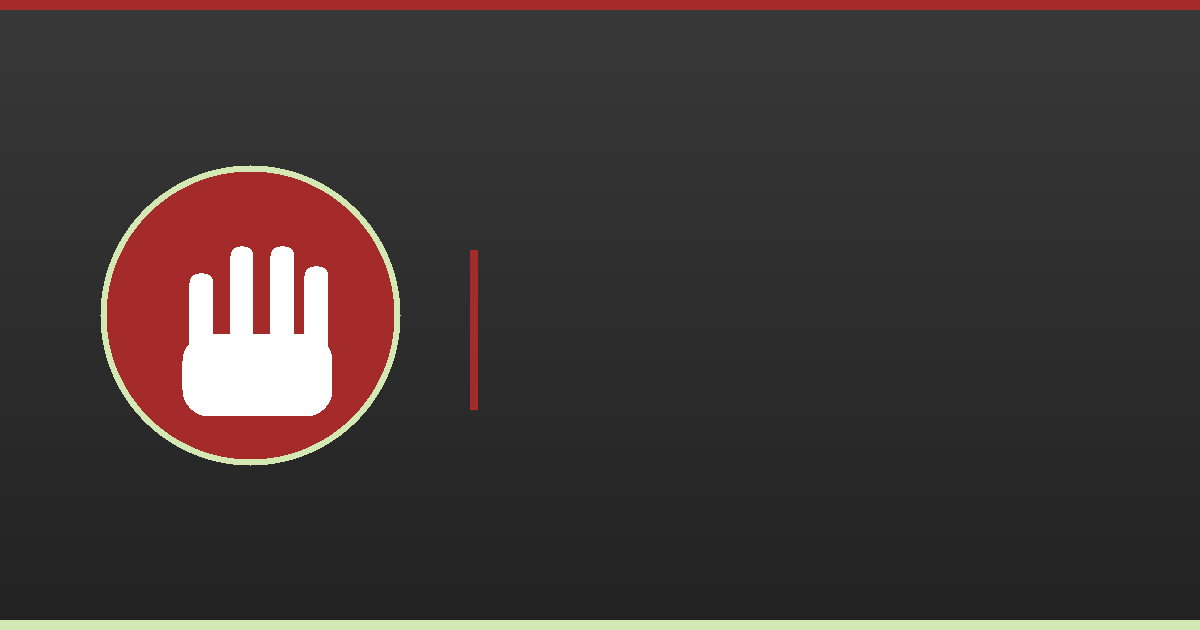
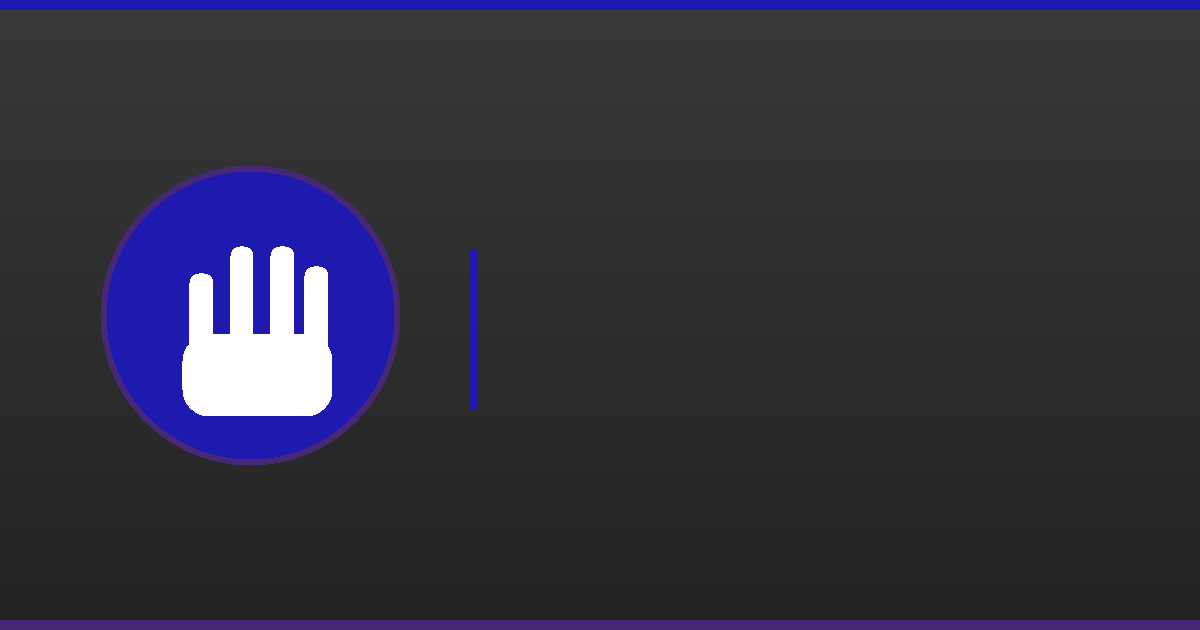
Преоцветяване в синьо-виолетово и интеграция на реалните изображения
Корекция на цветовата схема според действителния сайт bg.sgbbg.com (не
червено): синьо-индигов банер (#180fa8 → #352db4), виолетово лого (#472876),
сини заглавия. Извлечени и интегрирани всички оригинални изображения.

- Палитра (public + admin) изцяло пребоядисана в синьо/виолетово
- Реално лого на СГБ в header и footer (бяла кръгла значка)
- Hero слайдшоу с 11 оригинални събитийни снимки (банер ротатор)
- Фото галерия „Из живота на СГБ" с оригиналните снимки
- Примерните статии използват реални снимки като корици
- Обновени favicon, PWA икона, Open Graph изображение и theme-color

Извлечени файлове: 22 снимки + 2 версии на логото (public/img/site/)

Claude-Session: https://claude.ai/code/session_013oq17Ngc3DsboMG6M52u7e

diff --git a/sgb-website/public/css/main.css b/sgb-website/public/css/main.css
@@ -1,24 +1,33 @@
 /* ============================================================
    Съюз на глухите в България — публичен стил
-   Палитра, наследена от оригиналния сайт:
-   header #383838 · footer #222 · фон #D3E8B2 · линк #a52a2a
-   акцент #0099FF · текст #555 · повърхност #f9f9f9
+   Палитра, извлечена от оригиналния сайт bg.sgbbg.com:
+   банер #180fa8 → #352db4 (индиго-синьо) · лого виолетово #472876
+   сини заглавия #0402e1 · повърхност #f8f9ff
    ============================================================ */
 :root {
-  --c-ink: #383838;
-  --c-ink-2: #222222;
-  --c-ink-3: #313131;
-  --c-brand: #a52a2a;
-  --c-brand-dark: #8a2222;
-  --c-accent: #0099ff;
-  --c-leaf: #d3e8b2;
-  --c-leaf-deep: #6f9b3e;
-  --c-surface: #f9f9f9;
-  --c-bg: #f4f6f0;
-  --c-text: #3a3a3a;
-  --c-muted: #6b7780;
-  --c-line: #e6e8e3;
+  --c-blue: #1e1ab0;
+  --c-blue-2: #352db4;
+  --c-blue-deep: #14107e;
+  --c-indigo: #180fa8;
+  --c-violet: #472876;
+  --c-violet-light: #6b4a9e;
+  --c-ink: #1c1c44;
+  --c-ink-2: #16163a;
+  --c-ink-3: #20204e;
+  --c-brand: #1e1ab0;
+  --c-brand-dark: #14107e;
+  --c-accent: #0c0ad6;
+  --c-leaf: #e3e2fb;
+  --c-leaf-deep: #472876;
+  --c-surface: #f8f9ff;
+  --c-bg: #f2f3fb;
+  --c-text: #36384a;
+  --c-muted: #6b6e87;
+  --c-line: #e4e5f1;
   --c-white: #ffffff;
+
+  --grad-header: linear-gradient(120deg, #180fa8 0%, #2a23b8 55%, #4a3fc8 100%);
+  --grad-violet: linear-gradient(135deg, #472876, #2a1a52);
 
   --font-head: 'Montserrat', system-ui, sans-serif;
   --font-serif: 'Source Serif 4', Georgia, 'Times New Roman', serif;
@@ -26,8 +35,8 @@
 
   --radius: 12px;
   --radius-sm: 8px;
-  --shadow: 0 2px 10px rgba(40, 45, 50, .06);
-  --shadow-lg: 0 12px 34px rgba(40, 45, 50, .12);
+  --shadow: 0 2px 10px rgba(28, 28, 68, .07);
+  --shadow-lg: 0 12px 34px rgba(24, 15, 168, .15);
   --container: 1200px;
   --transition: .2s ease;
 }
@@ -79,22 +88,23 @@ button { font-family: inherit; cursor: pointer; }
 
 /* ---------- Header ---------- */
 .site-header { position: sticky; top: 0; z-index: 100; background: #fff; box-shadow: var(--shadow); }
-.topbar { background: var(--c-ink-3); color: #cfd6d1; font-size: .82rem; }
+.topbar { background: var(--grad-violet); color: #d9d2ea; font-size: .82rem; }
 .topbar__inner { display: flex; justify-content: space-between; align-items: center; gap: 1rem; padding: .4rem 20px; }
 .topbar__tag { opacity: .85; }
 .topbar__links { display: flex; gap: 1.1rem; }
 .topbar__links a { color: #d8ddd9; }
 .topbar__links a:hover { color: #fff; text-decoration: none; }
 
-.masthead { background: var(--c-ink); color: #eee; }
+.masthead { background: var(--grad-header); color: #eee; box-shadow: inset 0 -3px 0 rgba(255,255,255,.08); }
 .masthead__inner { display: flex; align-items: center; gap: 1.5rem; padding: .85rem 20px; }
 .brand { display: flex; align-items: center; gap: .85rem; text-decoration: none; }
 .brand:hover { text-decoration: none; }
-.brand__logo { flex: 0 0 auto; }
+.brand__badge { flex: 0 0 auto; display: grid; place-items: center; width: 60px; height: 60px; background: #fff; border-radius: 50%; box-shadow: 0 2px 8px rgba(0,0,0,.25); overflow: hidden; }
+.brand__logo { width: 48px; height: 48px; object-fit: contain; }
 .brand__text { display: flex; flex-direction: column; }
 .brand__name { font-family: var(--font-head); font-weight: 800; font-size: 1.15rem; color: #fff; letter-spacing: .2px; line-height: 1.15; }
 .brand__sub { font-size: .78rem; color: var(--c-leaf); letter-spacing: .3px; }
-.masthead__search { margin-left: auto; display: flex; align-items: center; background: #4a4a4a; border-radius: 999px; padding: 2px; }
+.masthead__search { margin-left: auto; display: flex; align-items: center; background: rgba(255,255,255,.16); border-radius: 999px; padding: 2px; }
 .masthead__search input { border: 0; background: transparent; color: #fff; padding: .5rem .9rem; width: 240px; outline: none; font-size: .9rem; }
 .masthead__search input::placeholder { color: #b7bdb9; }
 .masthead__search button { border: 0; background: var(--c-brand); color: #fff; width: 38px; height: 38px; border-radius: 999px; display: grid; place-items: center; }
@@ -103,7 +113,7 @@ button { font-family: inherit; cursor: pointer; }
 .nav-toggle { display: none; flex-direction: column; gap: 5px; background: none; border: 0; padding: 8px; }
 .nav-toggle span { width: 26px; height: 2.5px; background: #fff; border-radius: 2px; transition: var(--transition); }
 
-.primary-nav { background: var(--c-ink-2); }
+.primary-nav { background: var(--c-blue-deep); border-top: 1px solid rgba(255,255,255,.08); }
 .primary-nav__list { display: flex; flex-wrap: wrap; list-style: none; margin: 0; padding: 0; }
 .primary-nav__list > li { position: relative; }
 .primary-nav__list a {
@@ -170,6 +180,23 @@ button { font-family: inherit; cursor: pointer; }
 
 .badge { display: inline-block; font-family: var(--font-head); font-weight: 700; font-size: .7rem; text-transform: uppercase; letter-spacing: .7px; padding: .3rem .7rem; border-radius: 999px; background: var(--c-ink); color: #fff; }
 .badge--accent { background: var(--c-brand); }
+.badge--violet { background: var(--c-violet); }
+
+/* ---------- Слайдшоу (реални снимки) ---------- */
+.slideshow { background: var(--c-ink-2); }
+.slideshow__track { position: relative; max-width: 1280px; margin: 0 auto; aspect-ratio: 1280/451; overflow: hidden; }
+.slide { position: absolute; inset: 0; margin: 0; opacity: 0; transition: opacity .8s ease; }
+.slide.is-active { opacity: 1; }
+.slide img { width: 100%; height: 100%; object-fit: cover; }
+.slideshow__overlay { position: absolute; left: 0; right: 0; bottom: 0; padding: 2.5rem 2rem 1.6rem; background: linear-gradient(180deg, transparent, rgba(20,16,126,.82)); color: #fff; pointer-events: none; }
+.slideshow__caption { font-family: var(--font-head); font-weight: 700; font-size: 1.4rem; margin: .6rem 0 0; max-width: 720px; text-shadow: 0 2px 12px rgba(0,0,0,.4); }
+.slideshow__nav { position: absolute; top: 50%; transform: translateY(-50%); width: 44px; height: 44px; border: 0; border-radius: 50%; background: rgba(255,255,255,.22); color: #fff; font-size: 1.8rem; line-height: 1; cursor: pointer; backdrop-filter: blur(4px); transition: var(--transition); }
+.slideshow__nav:hover { background: var(--c-brand); }
+.slideshow__nav--prev { left: 1rem; }
+.slideshow__nav--next { right: 1rem; }
+.slideshow__dots { position: absolute; bottom: .9rem; left: 50%; transform: translateX(-50%); display: flex; gap: .5rem; }
+.slideshow__dots button { width: 10px; height: 10px; border-radius: 50%; border: 0; background: rgba(255,255,255,.5); cursor: pointer; padding: 0; transition: var(--transition); }
+.slideshow__dots button.is-active { background: #fff; width: 26px; border-radius: 6px; }
 
 /* ---------- Grids & cards ---------- */
 .grid { display: grid; gap: 1.6rem; }
@@ -180,7 +207,7 @@ button { font-family: inherit; cursor: pointer; }
 .card__media { aspect-ratio: 16/10; background: var(--c-ink); display: block; overflow: hidden; }
 .card__media img { width: 100%; height: 100%; object-fit: cover; transition: transform .4s ease; }
 .card:hover .card__media img { transform: scale(1.05); }
-.card__placeholder { width: 100%; height: 100%; display: grid; place-items: center; color: rgba(255,255,255,.5); font-family: var(--font-head); font-weight: 800; font-size: 2rem; background: linear-gradient(135deg, #3a3a3a, #555); }
+.card__placeholder { width: 100%; height: 100%; display: grid; place-items: center; color: rgba(255,255,255,.6); font-family: var(--font-head); font-weight: 800; font-size: 2rem; background: linear-gradient(135deg, var(--c-indigo), var(--c-violet)); }
 .card__placeholder--lg { font-size: 3rem; }
 .card__body { padding: 1.1rem 1.25rem 1.4rem; display: flex; flex-direction: column; flex: 1; }
 .card__title { font-size: 1.12rem; margin: .35rem 0 .5rem; line-height: 1.3; }
@@ -194,6 +221,11 @@ button { font-family: inherit; cursor: pointer; }
 .topic:hover { box-shadow: var(--shadow); transform: translateX(3px); text-decoration: none; border-left-color: var(--c-leaf-deep); }
 .topic__name { font-family: var(--font-head); font-weight: 700; color: var(--c-ink); }
 .topic__count { font-size: .8rem; color: var(--c-muted); }
+
+.gallery { display: grid; grid-template-columns: repeat(auto-fill, minmax(150px, 1fr)); gap: .8rem; }
+.gallery__item { aspect-ratio: 4/3; overflow: hidden; border-radius: var(--radius-sm); box-shadow: var(--shadow); }
+.gallery__item img { width: 100%; height: 100%; object-fit: cover; transition: transform .4s ease; }
+.gallery__item:hover img { transform: scale(1.08); }
 
 .chips { display: flex; flex-wrap: wrap; gap: .6rem; margin-bottom: 1.8rem; }
 .chip { background: #fff; border: 1px solid var(--c-line); border-radius: 999px; padding: .45rem 1rem; font-size: .88rem; font-weight: 600; color: var(--c-ink); }
@@ -304,6 +336,8 @@ button { font-family: inherit; cursor: pointer; }
 .site-footer { background: var(--c-ink-2); color: #aab2ad; margin-top: 3rem; }
 .site-footer__grid { display: grid; grid-template-columns: 1.6fr 1fr 1fr 1.2fr; gap: 2.5rem; padding: 3rem 20px; }
 .footer-brand { display: flex; align-items: center; gap: .7rem; margin-bottom: 1rem; }
+.footer-brand__badge { display: grid; place-items: center; width: 50px; height: 50px; background: #fff; border-radius: 50%; flex: 0 0 auto; overflow: hidden; }
+.footer-brand__badge img { width: 40px; height: 40px; object-fit: contain; }
 .footer-brand strong { font-family: var(--font-head); color: #fff; font-size: 1.05rem; }
 .footer-col--about p { font-size: .92rem; line-height: 1.7; }
 .footer-col__title { font-family: var(--font-head); font-size: .9rem; text-transform: uppercase; letter-spacing: .6px; color: #fff; margin: 0 0 1rem; padding-bottom: .6rem; border-bottom: 2px solid var(--c-brand); display: inline-block; }

diff --git a/sgb-website/public/css/admin.css b/sgb-website/public/css/admin.css
@@ -1,8 +1,8 @@
 /* Админ панел — Съюз на глухите в България */
 :root {
-  --c-ink: #383838; --c-ink-2: #222; --c-brand: #a52a2a; --c-brand-dark: #8a2222;
-  --c-accent: #0099ff; --c-leaf: #d3e8b2; --c-surface: #f5f6f4; --c-line: #e4e7e2;
-  --c-text: #34383a; --c-muted: #79827f; --sidebar-w: 252px;
+  --c-ink: #1c1c44; --c-ink-2: #16163a; --c-brand: #1e1ab0; --c-brand-dark: #14107e;
+  --c-accent: #0c0ad6; --c-leaf: #e3e2fb; --c-surface: #f5f6fc; --c-line: #e4e5f1;
+  --c-text: #34384a; --c-muted: #767a92; --c-violet: #472876; --sidebar-w: 252px;
   --font-head: 'Inter', system-ui, sans-serif; --font: 'Inter', system-ui, sans-serif;
   --radius: 10px; --shadow: 0 1px 3px rgba(0,0,0,.08); --shadow-lg: 0 8px 28px rgba(0,0,0,.12);
 }
@@ -15,7 +15,7 @@ h1, h2, h3 { font-family: var(--font-head); margin: 0; }
 :focus-visible { outline: 2px solid var(--c-accent); outline-offset: 2px; }
 
 /* ---------- Login ---------- */
-.admin--login { display: grid; place-items: center; min-height: 100vh; background: linear-gradient(135deg, #383838, #222); padding: 1rem; }
+.admin--login { display: grid; place-items: center; min-height: 100vh; background: linear-gradient(135deg, #1e1ab0, #14107e); padding: 1rem; }
 .login-card { background: #fff; border-radius: 16px; box-shadow: var(--shadow-lg); padding: 2.5rem; width: 100%; max-width: 400px; }
 .login-card__head { text-align: center; margin-bottom: 1.8rem; }
 .login-card__head img { margin: 0 auto 1rem; }
@@ -45,7 +45,7 @@ h1, h2, h3 { font-family: var(--font-head); margin: 0; }
 .admin-topbar { display: flex; align-items: center; justify-content: space-between; gap: 1rem; padding: 1.2rem 2rem; background: #fff; border-bottom: 1px solid var(--c-line); position: sticky; top: 0; z-index: 20; }
 .admin-topbar h1 { font-size: 1.3rem; }
 .admin-topbar__user { display: flex; align-items: center; gap: .6rem; font-size: .9rem; color: var(--c-muted); }
-.role-tag { background: var(--c-leaf); color: #3a5320; font-size: .72rem; font-weight: 700; padding: .2rem .55rem; border-radius: 999px; }
+.role-tag { background: var(--c-leaf); color: #472876; font-size: .72rem; font-weight: 700; padding: .2rem .55rem; border-radius: 999px; }
 .admin-body { padding: 2rem; max-width: 1280px; }
 .admin-burger { display: none; position: fixed; top: .9rem; left: .9rem; z-index: 60; flex-direction: column; gap: 5px; background: var(--c-ink-2); border: 0; padding: 10px; border-radius: 8px; }
 .admin-burger span { width: 22px; height: 2px; background: #fff; }
@@ -86,7 +86,7 @@ h1, h2, h3 { font-family: var(--font-head); margin: 0; }
 .pill { display: inline-block; font-size: .74rem; font-weight: 700; padding: .22rem .6rem; border-radius: 999px; background: #eef0ed; color: #5a635f; }
 .pill--published { background: #e3f3df; color: #2f7a2f; }
 .pill--draft { background: #fbf0d8; color: #9a6a13; }
-.pill--accent { background: #f7e0e0; color: var(--c-brand); }
+.pill--accent { background: #e6e4fb; color: var(--c-violet); }
 
 /* ---------- Editor layout ---------- */
 .editor-grid { display: grid; grid-template-columns: 1fr 340px; gap: 1.5rem; align-items: start; }

diff --git a/sgb-website/public/js/main.js b/sgb-website/public/js/main.js
@@ -42,6 +42,38 @@
     if (decline) decline.addEventListener('click', function () { close('necessary'); });
   }
 
+  // Слайдшоу с реални снимки
+  var show = document.getElementById('slideshow');
+  if (show) {
+    var slides = Array.prototype.slice.call(show.querySelectorAll('.slide'));
+    var dotsWrap = document.getElementById('slide-dots');
+    var idx = 0, timer = null;
+    var dots = slides.map(function (_, i) {
+      var b = document.createElement('button');
+      b.setAttribute('role', 'tab');
+      b.setAttribute('aria-label', 'Снимка ' + (i + 1));
+      if (i === 0) b.classList.add('is-active');
+      b.addEventListener('click', function () { go(i); reset(); });
+      dotsWrap.appendChild(b);
+      return b;
+    });
+    function go(n) {
+      slides[idx].classList.remove('is-active');
+      dots[idx].classList.remove('is-active');
+      idx = (n + slides.length) % slides.length;
+      slides[idx].classList.add('is-active');
+      dots[idx].classList.add('is-active');
+    }
+    function next() { go(idx + 1); }
+    function prev() { go(idx - 1); }
+    function reset() { if (timer) clearInterval(timer); timer = setInterval(next, 6000); }
+    var pn = document.getElementById('slide-next');
+    var pp = document.getElementById('slide-prev');
+    if (pn) pn.addEventListener('click', function () { next(); reset(); });
+    if (pp) pp.addEventListener('click', function () { prev(); reset(); });
+    if (!window.matchMedia('(prefers-reduced-motion: reduce)').matches) reset();
+  }
+
   // Сянка на хедъра при скрол
   var header = document.getElementById('site-header');
   if (header) {

diff --git a/sgb-website/src/seed.js b/sgb-website/src/seed.js
@@ -91,8 +91,8 @@ function seedSampleContent() {
   const admin = db.prepare('SELECT id FROM users LIMIT 1').get();
   const cat = db.prepare("SELECT id FROM categories WHERE slug='posledna-informaciya'").get();
   const insert = db.prepare(
-    `INSERT INTO articles (category_id, author_id, slug, title, excerpt, body, status, featured, meta_description, published_at)
-     VALUES (?,?,?,?,?,?, 'published', ?, ?, ?)`
+    `INSERT INTO articles (category_id, author_id, slug, title, excerpt, body, cover_image, cover_alt, status, featured, meta_description, published_at)
+     VALUES (?,?,?,?,?,?,?,?, 'published', ?, ?, ?)`
   );
   const samples = [
     {
@@ -131,9 +131,11 @@ function seedSampleContent() {
       meta: 'Информация за правата на хората с увреден слух и дейността на Съюза на глухите в България.',
     },
   ];
-  for (const s of samples) {
-    insert.run(cat?.id || null, admin?.id || null, s.slug, s.title, s.excerpt, s.body, s.featured, s.meta, nowIso());
-  }
+  const covers = ['/img/site/banner-1.jpg', '/img/site/banner-5.jpg', '/img/site/banner-9.jpg'];
+  samples.forEach((s, i) => {
+    insert.run(cat?.id || null, admin?.id || null, s.slug, s.title, s.excerpt, s.body,
+      covers[i] || null, 'Снимка от дейността на Съюза на глухите в България', s.featured, s.meta, nowIso());
+  });
 
   // Примерен брой на вестника
   db.prepare(
